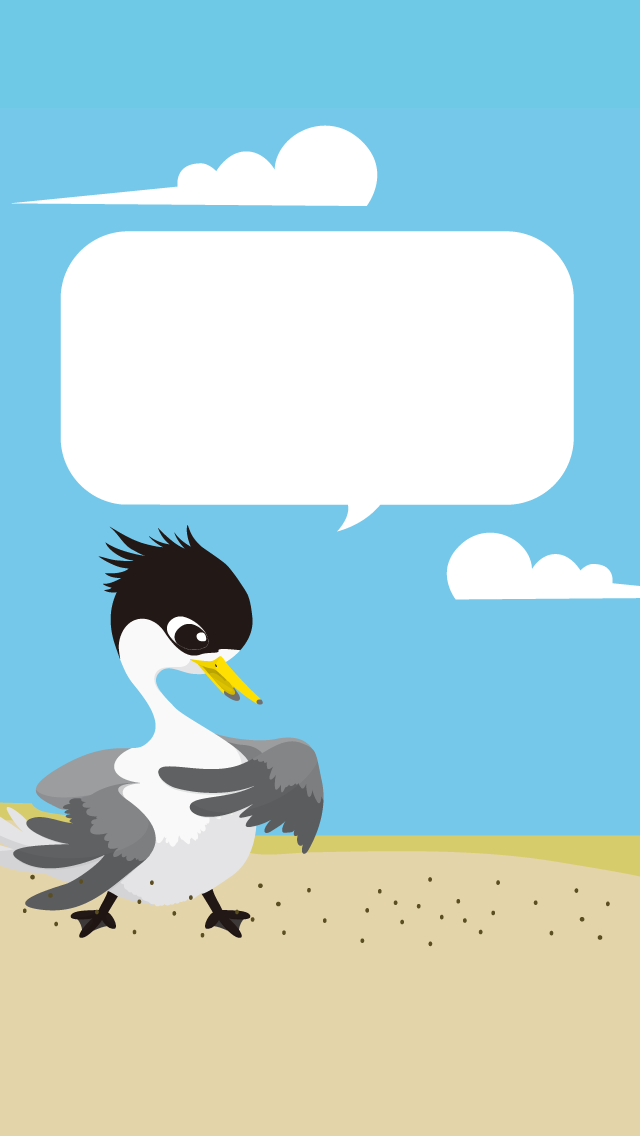
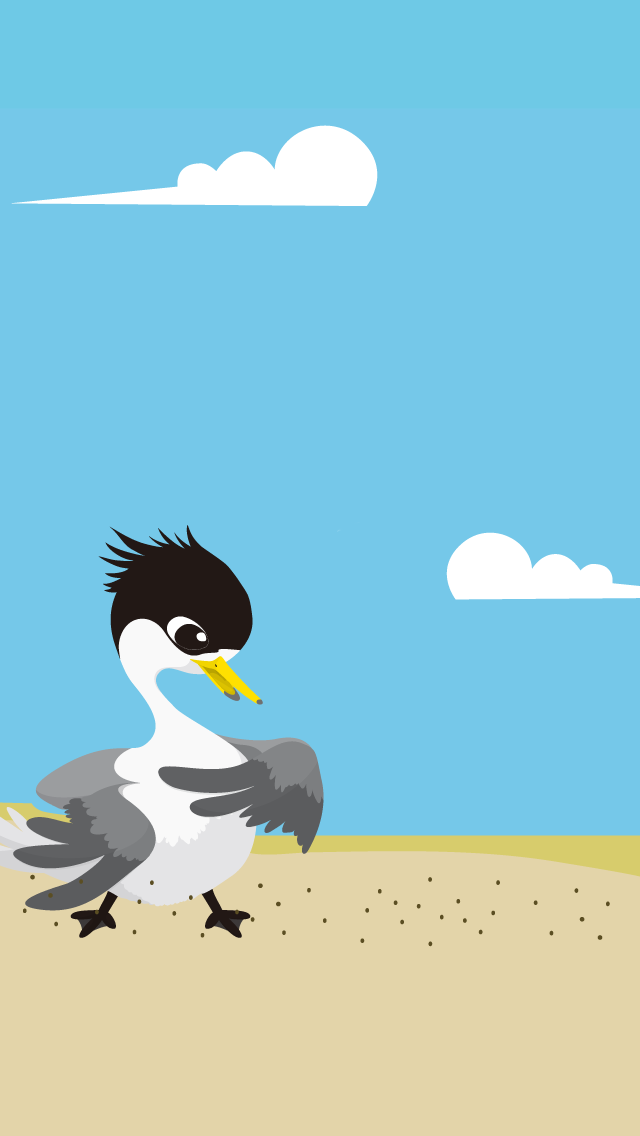
Try fix android bugs

Changed region(s): [[0.0938, 0.1849, 0.9062, 0.4621]]

diff --git a/www/css/index.css b/www/css/index.css
@@ -319,25 +319,37 @@ body {
 
 .ui-content {
     padding: 0 !important;
+    min-height: 500px;
 /*    overflow-y: scroll !important;
     -webkit-overflow-scrolling: touch;*/
 }
 
 .intro {
-    margin: 0 auto;
-    padding-top: 125px;
-    height: 100%;
-    min-height: 360px;
-    width: 100%;
-    background-size: 100%;
-    background-repeat: no-repeat;
+    position: relative;
+    margin: 130px 40px 0 40px;
+    padding: 20px 30px;
+    background-color: #fff;
+    border-radius: 30px;
+}
+
+.intro:after {
+  display: block;
+  content: '';
+  width: 50px;
+  height: 50px;
+  position: absolute;
+  bottom: -50px;
+  left: 100px;
+  background: transparent url(../img/block-arrow.png) center top no-repeat;
+  z-index: 10000;
 }
 
 .intro h3 {
-    width: 75%;
-    margin: 50px auto 5px auto;
+    margin: 0 auto 10px auto;
     color: #164557;
-    font-size: 16px;
+    font-size: 20px;
+    text-shadow: none;
+    fonr-weight: normal;
 }
 
 .intro h3 span {
@@ -348,7 +360,6 @@ body {
 .intro p {
     display: block;
     margin: 0 auto;
-    width: 75%;
     text-align: left;
     font-size: 12px;
     line-height: 1.5;
@@ -370,8 +381,8 @@ body {
     background-size: 100%;
 }
 
-#page-detail-c .intro h3 {
-    margin-top: 140px;
+#page-detail-c .intro {
+  margin-top: 250px;
 }
 
 #page-detail-d {
@@ -379,8 +390,13 @@ body {
     background-size: 100%;
 }
 
-#page-detail-d .intro h3 {
-    margin-top: 30px;
+#page-detail-d .intro {
+    margin-top: 150px;
+}
+
+#page-detail-d .intro:after {
+    background-image: url(../img/block-arrow-b.png);
+    left: 180px;
 }
 
 #page-detail-e {
@@ -388,10 +404,19 @@ body {
     background-size: 100%;
 }
 
+#page-detail-e .intro {
+    color: #fff;
+    background-color: #1B75BB;
+    text-shadow: none;
+}
+
+#page-detail-e .intro:after {
+    background-image: url(../img/block-arrow-c.png);
+    left: 100px;
+}
+
 #page-detail-e .intro h3 {
     color: #fff;
-    margin-top: -10px;
-    text-shadow: none;
 }
 
 #page-detail-e .intro p {
@@ -404,8 +429,8 @@ body {
     background-size: 100%;
 }
 
-#page-detail-f .intro h3 {
-    margin-top: 80px;
+#page-detail-f .intro {
+  margin-top: 180px;
 }
 
 #page-detail-g {
@@ -413,6 +438,9 @@ body {
     background-size: 100%;
 }
 
+#page-detail-g .intro {
+  margin-top: 160px;
+}
 
 
 
